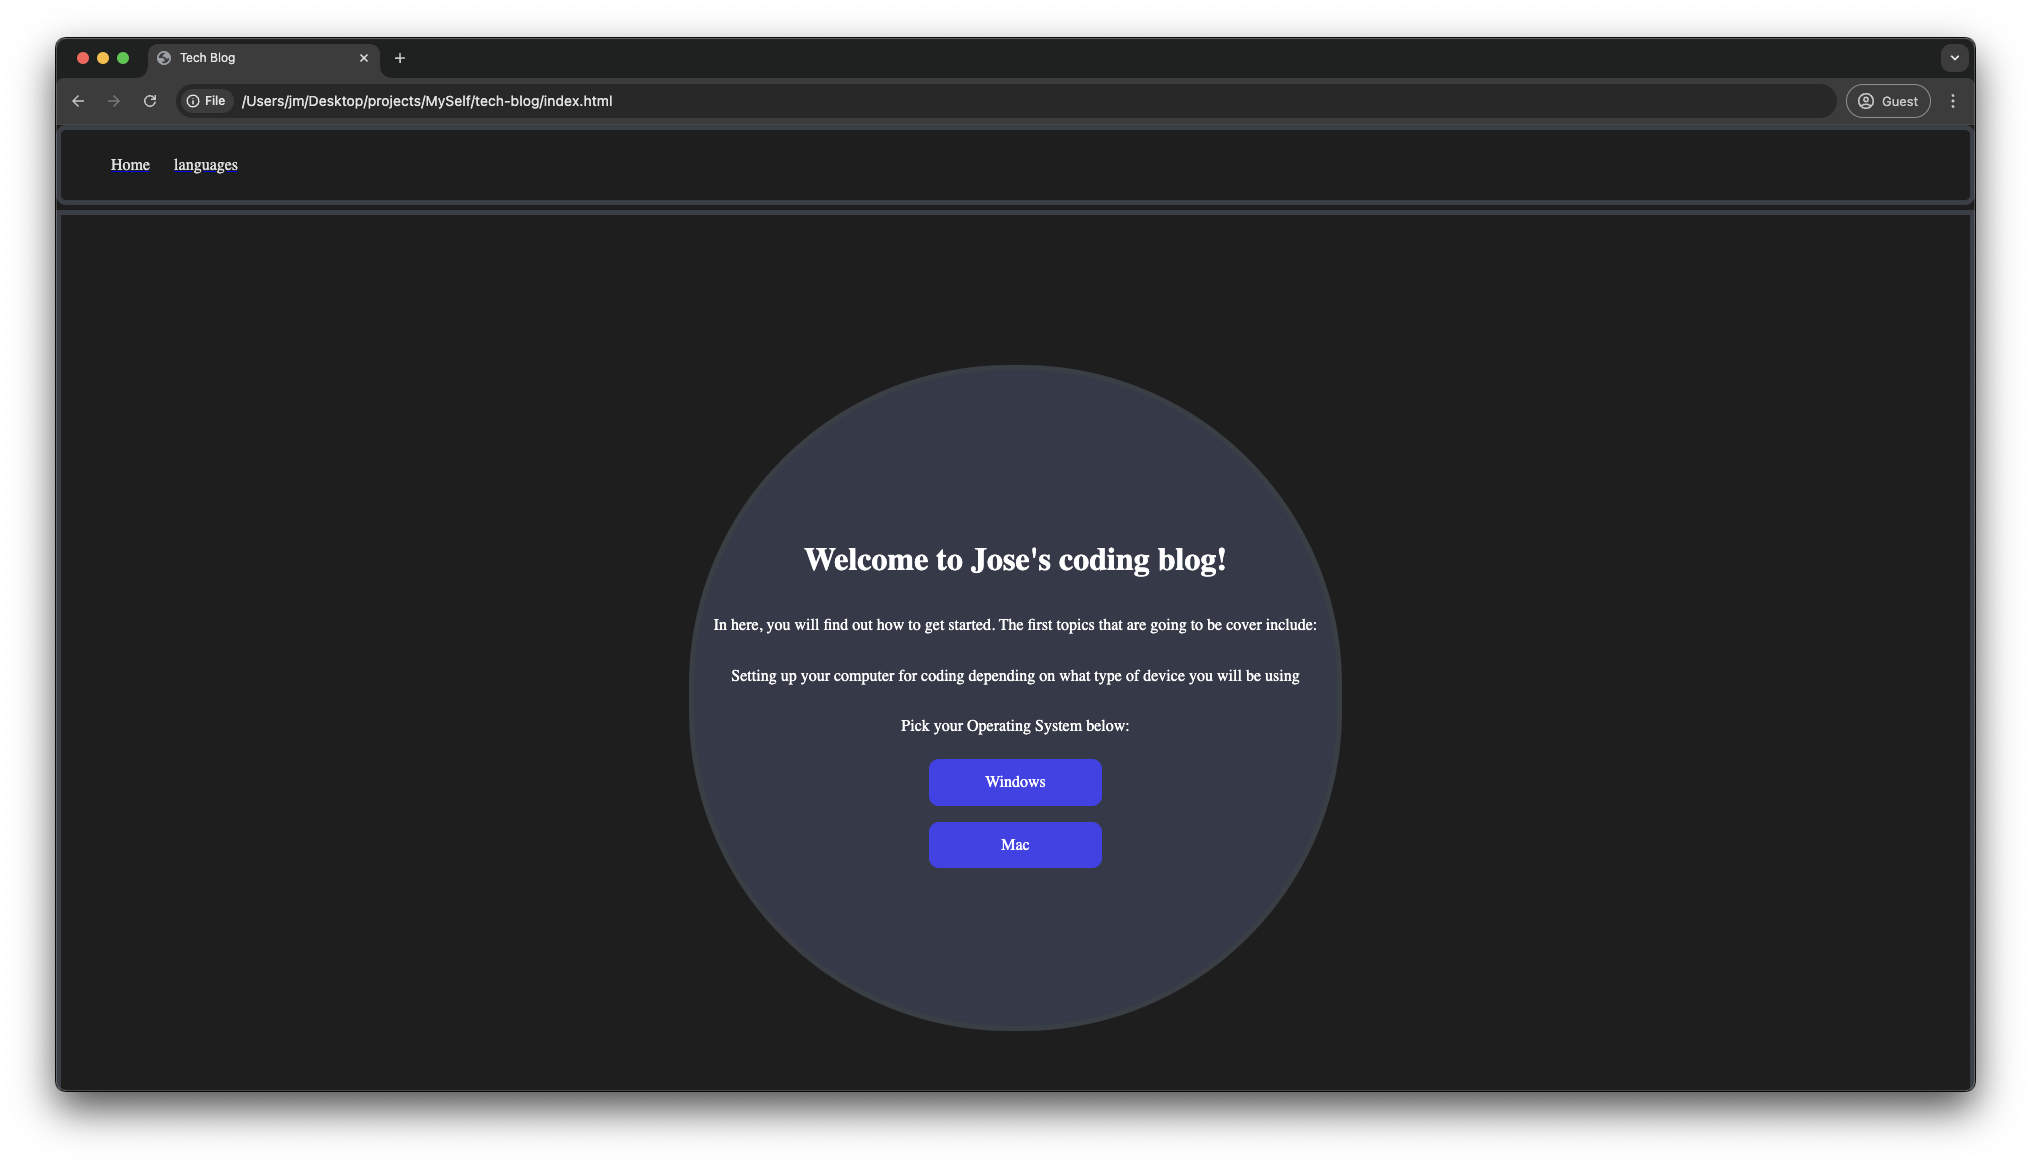
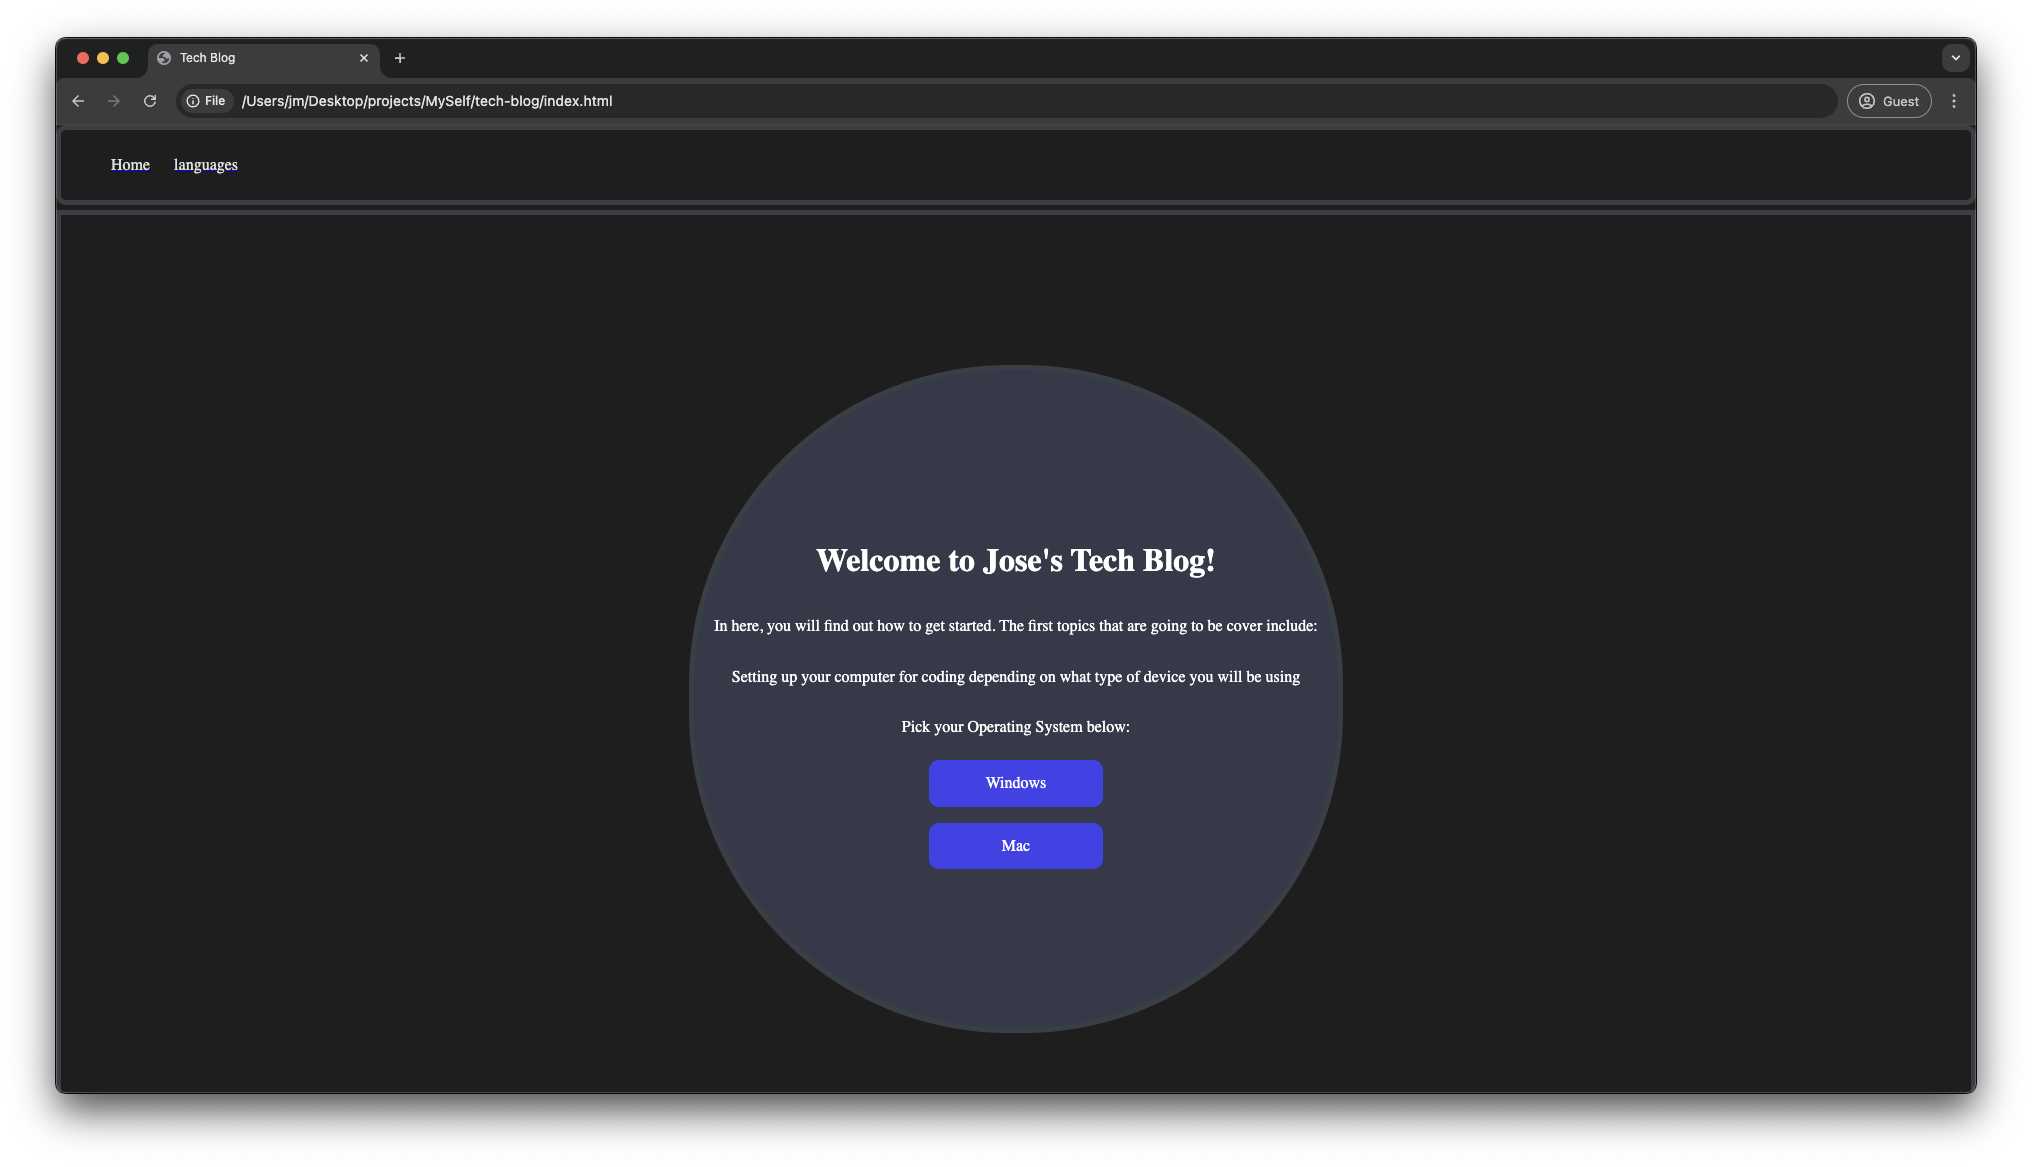
replaced readme picture

diff --git a/index.html b/index.html
@@ -12,7 +12,7 @@
     <nav></nav>
     <div id="main">
     <div id="circle">
-        <h1>Welcome to Jose's coding blog!</h1>
+        <h1>Welcome to Jose's Tech Blog!</h1>
         <p>
           In here, you will find out how to get started. The first topics that are
           going to be cover include:
